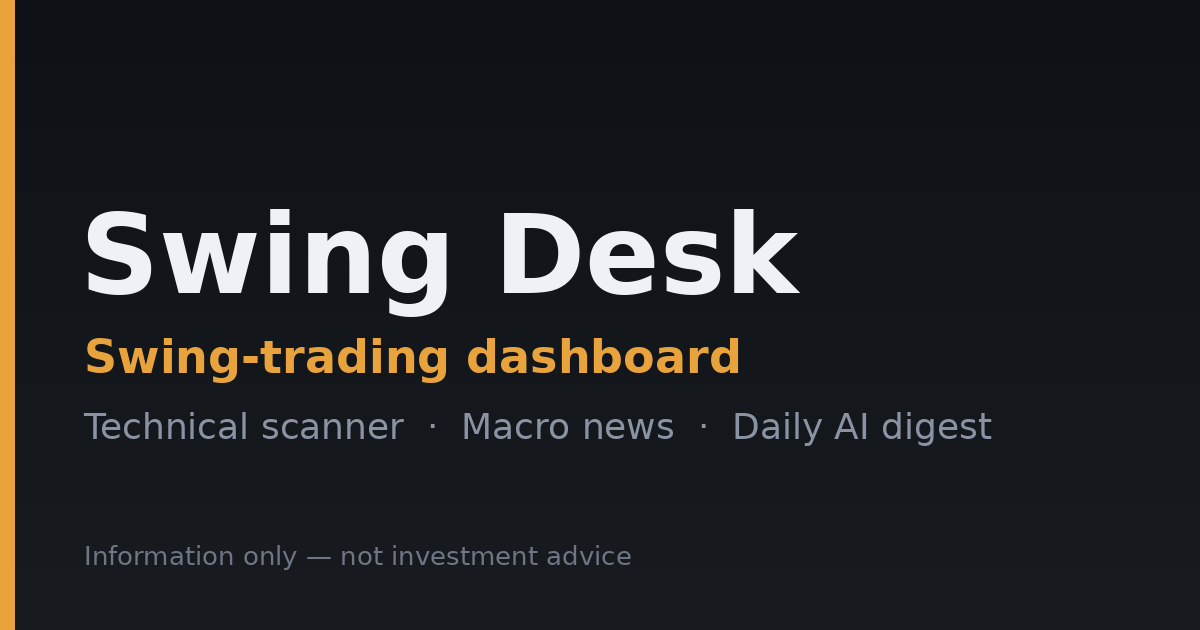
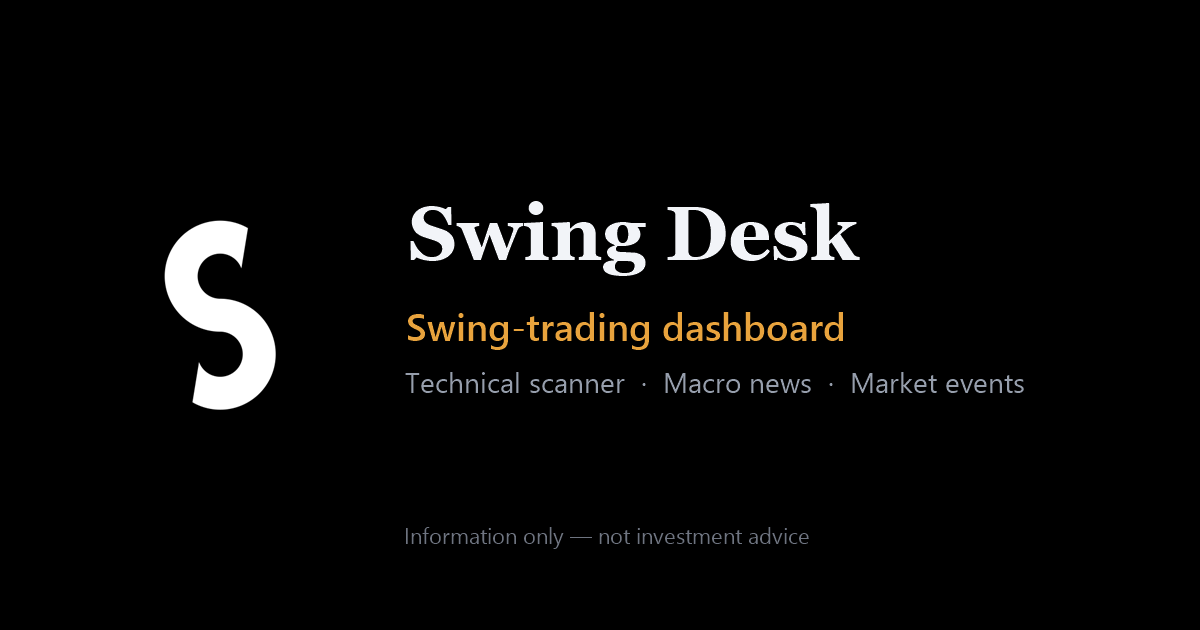
Add files via upload

diff --git a/index.html b/index.html
@@ -2541,9 +2541,10 @@ function renderMarketTicker(){
     const sign = up ? '+' : '';
     const priceStr = it.price >= 1000 ? Math.round(it.price).toLocaleString(t?'en-US':'he-IL') : it.price.toFixed(2);
     const pointsStr = Math.abs(it.change_points) >= 1000
-      ? Math.round(it.change_points).toLocaleString(t?'en-US':'he-IL')
+      ? Math.round(Math.abs(it.change_points)).toLocaleString(t?'en-US':'he-IL')
       : Math.abs(it.change_points).toFixed(2);
-    return `<span class="ticker-item"><span class="t-name">${name}</span><span class="t-price">${priceStr}</span><span class="t-chg ${up?'up':'down'}">${sign}${pointsStr} (${sign}${it.change_pct.toFixed(2)}%)</span></span>`;
+    // the points are shown without their sign, so a fall needs its own minus (VIX showed "1.61 (-8.28%)")
+    return `<span class="ticker-item"><span class="t-name">${name}</span><span class="t-price">${priceStr}</span><span class="t-chg ${up?'up':'down'}">${up?'+':'-'}${pointsStr} (${sign}${it.change_pct.toFixed(2)}%)</span></span>`;
   };
   const baseRow = lastMarketTicker.map(itemHtml).join('');
 
@@ -3109,7 +3110,7 @@ function renderEconMonth(){
   const data = econMonthCache[econMonth];
   const [y, m] = econMonth.split('-').map(Number);
   const first = new Date(Date.UTC(y, m - 1, 1));
-  const lead = first.getUTCDay();                                  // 0 = Sunday
+  const lead = (first.getUTCDay() + 6) % 7;                        // weeks start on Monday, like the US market week (0 = Monday)
   const dim = new Date(Date.UTC(y, m, 0)).getUTCDate();
   const loc = en ? 'en-US' : 'he-IL';
   const monthName = new Intl.DateTimeFormat(loc, {month:'long', year:'numeric', timeZone:'UTC'}).format(first);
@@ -3138,8 +3139,8 @@ function renderEconMonth(){
       ? `<b>${events.length}</b> market events this month, <b>${highN}</b> of them high-impact. Tap a day for details.`
       : `<b>${events.length}</b> אירועי שוק החודש, <b>${highN}</b> מהם בהשפעה גבוהה. לחץ על יום לפרטים.`}${nextTxt ? '<br>' + nextTxt : ''}</div>`;
 
-  // weekday header (a known Sunday-first week) and day cells
-  const wd = Array.from({length: 7}, (_, i) => new Intl.DateTimeFormat(loc, {weekday: en ? 'short' : 'narrow', timeZone:'UTC'}).format(new Date(Date.UTC(2026, 0, 4 + i))));
+  // weekday header (a known Monday-first week: 5 Jan 2026 is a Monday) and day cells
+  const wd = Array.from({length: 7}, (_, i) => new Intl.DateTimeFormat(loc, {weekday: en ? 'short' : 'narrow', timeZone:'UTC'}).format(new Date(Date.UTC(2026, 0, 5 + i))));
   let cells = '';
   for(let i = 0; i < lead; i++) cells += '<div class="cal-cell empty"></div>';
   for(let d = 1; d <= dim; d++){
@@ -3227,10 +3228,11 @@ function renderEarningsCalendar(items){
       let epsHtml = '';
       if(it.reported && it.eps_actual != null){
         const beat = it.surprise_pct != null && it.surprise_pct >= 0;
-        const color = it.surprise_pct == null ? 'var(--text-dim)' : (beat ? 'var(--green)' : 'var(--red)');
+        const flat = it.surprise_pct != null && Math.abs(it.surprise_pct) < 0.05;   // would print "▲ 0.0%"
+        const color = it.surprise_pct == null || flat ? 'var(--text-dim)' : (beat ? 'var(--green)' : 'var(--red)');
         const arrow = it.surprise_pct == null ? '' : (beat ? '▲' : '▼');
         const estPart = it.eps_estimate != null ? ` (${lang==='en'?'est':'צפי'} $${it.eps_estimate.toFixed(2)})` : '';
-        const surprisePart = it.surprise_pct != null ? ` ${arrow} ${Math.abs(it.surprise_pct).toFixed(1)}%` : '';
+        const surprisePart = it.surprise_pct == null ? '' : flat ? ` ＝ ${lang==='en'?'in line':'בהתאם לצפי'}` : ` ${arrow} ${Math.abs(it.surprise_pct).toFixed(1)}%`;
         epsHtml = `<div class="earnings-cal-eps" style="color:${color}">EPS $${it.eps_actual.toFixed(2)}${estPart}${surprisePart}</div>`;
       }
       let revHtml = '';
@@ -3255,10 +3257,11 @@ function renderEarningsCalendar(items){
       }
       if(it.reported && it.revenue_actual != null){
         const revBeat = it.revenue_surprise_pct != null && it.revenue_surprise_pct >= 0;
-        const revColor = it.revenue_surprise_pct == null ? 'var(--text-dim)' : (revBeat ? 'var(--green)' : 'var(--red)');
+        const revFlat = it.revenue_surprise_pct != null && Math.abs(it.revenue_surprise_pct) < 0.05;
+        const revColor = it.revenue_surprise_pct == null || revFlat ? 'var(--text-dim)' : (revBeat ? 'var(--green)' : 'var(--red)');
         const revArrow = it.revenue_surprise_pct == null ? '' : (revBeat ? '▲' : '▼');
         const revEstPart = it.revenue_estimate != null ? ` (${lang==='en'?'est':'צפי'} $${formatMarketCap(it.revenue_estimate)})` : '';
-        const revSurprisePart = it.revenue_surprise_pct != null ? ` ${revArrow} ${Math.abs(it.revenue_surprise_pct).toFixed(1)}%` : '';
+        const revSurprisePart = it.revenue_surprise_pct == null ? '' : revFlat ? ` ＝ ${lang==='en'?'in line':'בהתאם לצפי'}` : ` ${revArrow} ${Math.abs(it.revenue_surprise_pct).toFixed(1)}%`;
         revHtml = `<div class="earnings-cal-eps" style="color:${revColor}">${lang==='en'?'Rev':'הכנסות'} $${formatMarketCap(it.revenue_actual)}${revEstPart}${revSurprisePart}</div>`;
       }
       return `<div class="earnings-cal-row">
@@ -5196,8 +5199,11 @@ function setConsent(v){ try{ localStorage.setItem('swing_consent', v); if(v!=='y
 function renderConsentBanner(){
   if(consentState()) return;
   const en = lang==='en';
+  const old = document.getElementById('consent-banner');
+  if(old) old.remove();                     // re-rendered on a language switch
   const d = document.createElement('div');
   d.id = 'consent-banner';
+  d.dataset.lang = lang;
   d.setAttribute('role','dialog');
   d.setAttribute('aria-label', en ? 'Privacy and cookies' : 'פרטיות ועוגיות');
   d.style.cssText = 'position:fixed;bottom:0;left:0;right:0;z-index:200;background:var(--panel);border-top:1px solid var(--line);padding:12px 16px;display:flex;flex-wrap:wrap;gap:10px;align-items:center;justify-content:center;font-size:12.5px;color:var(--text);box-shadow:0 -6px 24px var(--shadow);';
@@ -5871,6 +5877,8 @@ function applyLang(){
   document.getElementById('earnings-cal-title').textContent = t.earnings_cal_title;
   document.getElementById('daily-digest-btn').textContent = t.daily_digest_btn;
   if(lastFearGreedData) renderFearGreed(lastFearGreedData);
+  const cb = document.getElementById('consent-banner');
+  if(cb && cb.dataset.lang !== lang) renderConsentBanner();   // the banner stayed in Hebrew after switching to English
   rerenderDeepDiveForLang();
   if(backtestLastData && document.getElementById('backtest-content')) renderBacktestContent(backtestLastData);
   renderMarketTicker();

diff --git a/econ_refresh.py b/econ_refresh.py
@@ -9,7 +9,8 @@ Order of work (fast and bounded — a hanging source can never stall the run):
   1. ONE request to the BLS public API for all BLS-owned series (CPI, core CPI, PPI, jobs, unemployment, JOLTS).
   2. FRED for everything that is still missing (PCE, GDP, retail, claims, Fed rate), in parallel, one short attempt
      per URL form, hard time limit for the whole step.
-  3. Keyless stand-ins for what FRED did not deliver: NY Fed (Fed rate) and DBnomics (PCE, core PCE, GDP).
+  3. Keyless stand-ins for what FRED did not deliver: NY Fed (Fed rate), DBnomics (PCE, core PCE, GDP), the Labor
+     Department (jobless claims) and the Census release page (retail sales).
 A series that cannot be downloaded keeps its previous stored copy. The run fails (red) only if NOTHING refreshed.
 Needs only the DATABASE_URL secret (FRED_API_KEY / BLS_API_KEY optional).     Manual run: python -u econ_refresh.py
 """
@@ -69,7 +70,7 @@ def fred_download(series):
 #   * New York Fed rates API: the Fed's target range (upper bound) published with every daily EFFR rate = DFEDTARU.
 #   * DBnomics: a public mirror of BEA's NIPA tables (same index base and numbers as FRED). It re-reads BEA once a day
 #     (~01:30 UTC), so a new PCE/GDP "actual" shows up about a day after the release, not within minutes.
-# Retail sales (RSAFS) and jobless claims (ICSA) have no keyless source found yet (Census API now wants a key).
+#   * Labor Department (jobless claims) and the Census release page (retail sales) — see dol_claims / census_retail below.
 # --------------------------------------------------------------------------
 NYFED_EFFR = "https://markets.newyorkfed.org/api/rates/unsecured/effr/search.json?startDate={start}&endDate={end}"
 DBNOMICS = "https://api.db.nomics.world/v22/series/{code}?observations=1&format=json"
@@ -114,6 +115,79 @@ def dbnomics_rows(series):
     return rows
 
 
+# Jobless claims (ICSA): the Labor Department's own weekly-claims report, national, as XML (the form on
+# oui.doleta.gov/unemploy/claims.asp). "SA" = seasonally adjusted initial claims, the figure FRED's ICSA carries; the week
+# date is the Saturday the week ended, like FRED. Weeks not yet published come back as &#160; and are skipped.
+DOL_CLAIMS = "https://oui.doleta.gov/unemploy/wkclaims/report.asp"
+
+
+def dol_claims():
+    import re
+    import requests
+    year = date.today().year
+    r = requests.post(DOL_CLAIMS, data={"level": "us", "final_yr": str(year + 1), "strtdate": str(year - 2),
+                                        "enddate": str(year), "filetype": "xml", "submit": "Submit"},
+                      headers=ec.HTTP_HEADERS_ALT, timeout=30)
+    if r.status_code != 200:
+        raise RuntimeError(f"HTTP {r.status_code} for oui.doleta.gov")
+    rows = []
+    for wk in re.findall(r"(?s)<week>(.*?)</week>", r.text):
+        m_d = re.search(r"<weekEnded>(\d\d)/(\d\d)/(\d{4})</weekEnded>", wk)
+        block = re.search(r"(?s)<InitialClaims>(.*?)</InitialClaims>", wk)     # not the ContinuedClaims <SA>
+        m_v = re.search(r"<SA>([\d,]+)</SA>", block.group(1)) if block else None
+        if m_d and m_v:
+            rows.append((date(int(m_d.group(3)), int(m_d.group(1)), int(m_d.group(2))), float(m_v.group(1).replace(",", ""))))
+    if not rows:
+        raise RuntimeError("DOL claims report had no seasonally adjusted rows")
+    return sorted(rows)
+
+
+# Retail sales (RSAFS): the Census release page states the newest month in one sentence — "...for September 2026 ... were
+# $745.0 billion, up 0.8 percent ... from the previous month ... The July 2026 to August 2026 percent change was revised
+# from up 1.1 percent ... to up 1.3 percent". The calendar shows month-on-month % changes, so three monthly levels are
+# rebuilt from the level and the two official % changes (the older two levels are DERIVED, only the % changes are
+# official; they reproduce exactly the published figures for "actual" and "previous").
+CENSUS_RETAIL = "https://www.census.gov/retail/sales.html"
+_MONTHS = {m: i for i, m in enumerate(["january", "february", "march", "april", "may", "june", "july", "august",
+                                       "september", "october", "november", "december"], 1)}
+
+
+def _census_pct(phrase):
+    import re
+    if re.match(r"\s*(?:virtually\s+)?unchanged", phrase, re.I):
+        return 0.0
+    m = re.match(r"\s*(up|down)\s+([\d.]+)\s+percent", phrase, re.I)
+    if not m:
+        return None
+    return float(m.group(2)) * (1 if m.group(1).lower() == "up" else -1)
+
+
+def census_retail():
+    import html
+    import re
+    text = re.sub(r"\s+", " ", html.unescape(re.sub(r"<[^>]+>", " ", ec._http_text(CENSUS_RETAIL, timeout=25))))
+    m = re.search(r"retail and food services sales for (\w+) (\d{4}),.{0,200}?were \$([\d,.]+) billion,"
+                  r"((?:\s*(?:virtually\s+)?unchanged|\s*(?:up|down) [\d.]+ percent)).{0,60}?from the previous month", text, re.I)
+    if not m or m.group(1).lower() not in _MONTHS:
+        raise RuntimeError("Census retail page: headline sentence not found")
+    month = date(int(m.group(2)), _MONTHS[m.group(1).lower()], 1)
+    level = float(m.group(3).replace(",", "")) * 1000          # millions of dollars, like FRED's RSAFS
+    pct = _census_pct(m.group(4))
+    if pct is None:
+        raise RuntimeError("Census retail page: monthly change not understood")
+    prev_month = (month.replace(day=1) - timedelta(days=1)).replace(day=1)
+    rows = [(prev_month, level / (1 + pct / 100)), (month, level)]
+    r = re.search(r"percent change was (?:revised|unrevised) from (?:(?:virtually\s+)?unchanged|(?:up|down) [\d.]+ percent)"
+                  r"(?:\s*\([^)]{0,30}\))?(?:\s+to\b((?:\s*(?:virtually\s+)?unchanged|\s*(?:up|down) [\d.]+ percent)))?", text, re.I)
+    if r:
+        prev_pct = _census_pct(r.group(1)) if r.group(1) else _census_pct(re.search(
+            r"from ((?:virtually\s+)?unchanged|(?:up|down) [\d.]+ percent)", r.group(0), re.I).group(1))
+        if prev_pct is not None:
+            older = (prev_month - timedelta(days=1)).replace(day=1)
+            rows.insert(0, (older, rows[0][1] / (1 + prev_pct / 100)))
+    return rows
+
+
 def main():
     series = sorted({v["fred"]["series"] for v in ec.CATALOG.values() if v.get("fred")})
     stored = {}
@@ -147,7 +221,8 @@ def main():
         pool.shutdown(wait=False, cancel_futures=True)
 
     # 3) keyless stand-ins for whatever FRED did not deliver
-    fallbacks = {"DFEDTARU": ("NY Fed", nyfed_target_upper)}
+    fallbacks = {"DFEDTARU": ("NY Fed", nyfed_target_upper), "ICSA": ("DOL", dol_claims),
+                 "RSAFS": ("Census", census_retail)}
     fallbacks.update({s: ("DBnomics (BEA)", lambda s=s: dbnomics_rows(s)) for s in DBNOMICS_SERIES})
     for s, (src, fn) in fallbacks.items():
         if s in series and s not in stored:

diff --git a/pipeline_a_scanner.py b/pipeline_a_scanner.py
@@ -1570,7 +1570,7 @@ def scan_universe(universe: List[str] = None, target_language: str = "he") -> Li
             pattern_type = "cup_no_handle"
         elif resistance_break:
             trigger_en = f"Breaking above horizontal resistance at ${resistance_break['level']} (tested {resistance_break['touches']}x)"
-            trigger_he = f"פריצת התנגדות אופקית ב-${resistance_break['level']} (נבדקה {resistance_break['touches']} פעמים)"
+            trigger_he = f"פריצת התנגדות אופקית ב-${resistance_break['level']} ({_tested_he(resistance_break['touches'])})"
             tech_score = min(100, 75 + min(resistance_break['touches'] - 2, 4) * 2 + int(vol_pct / 10))
             pattern_type = "horizontal_resistance_breakout"
         elif golden_cross:
@@ -1613,7 +1613,7 @@ def scan_universe(universe: List[str] = None, target_language: str = "he") -> Li
             # validated support/resistance level is considered a
             # stronger signal than an indicator crossover on its own.
             trigger_en = f"Bouncing off horizontal support at ${level_bounce['level']} (tested {level_bounce['touches']}x)"
-            trigger_he = f"התאוששות מרמת תמיכה אופקית ב-${level_bounce['level']} (נבדקה {level_bounce['touches']} פעמים)"
+            trigger_he = f"התאוששות מרמת תמיכה אופקית ב-${level_bounce['level']} ({_tested_he(level_bounce['touches'])})"
             tech_score = min(76, 68 + min(level_bounce['touches'] - 2, 4) * 2)
             pattern_type = "horizontal_level_bounce"
         # Below this point: pure-indicator patterns (MACD crossover,
@@ -1799,6 +1799,11 @@ EARNINGS_CALENDAR_WINDOW_PAST_DAYS = 6
 EARNINGS_CALENDAR_WINDOW_FUTURE_DAYS = 7  # ...through the coming week
 
 
+def _tested_he(n) -> str:
+    """'(נבדקה N פעמים)' with correct Hebrew for one touch ('נבדקה 1 פעמים' read wrong)."""
+    return "נבדקה פעם אחת" if n == 1 else f"נבדקה {n} פעמים"
+
+
 def _earnings_session(dt_utc: datetime) -> str:
     """Before-open / after-close / during-market, based on the Eastern
     Time hour of the reported earnings timestamp (yfinance gives this in
@@ -1937,6 +1942,9 @@ _BAD_BEFORE = re.compile(
     # v18 (26.10.2026, live): one LINE of revenue, not the total — Verizon "Mobility and broadband service revenue of $23.5
     # billion" (total was $34.3B), Blackstone "Net Accrued Performance Revenues of $7.3 billion" (a balance, not revenue)
     r"\bservice|\bsubscription|\bproducts?\b|\bequipment\b|\baccrued\b|\bdeferred\b|\bunearned\b)\W*(?:\w+\W+){0,6}$", re.I)
+# A forward-looking word is cancelled by a past-result verb AFTER it in the same clause — only with a stored estimate (v18)
+_FORWARD_WORD = re.compile(r"expect|anticipat|outlook|guidance|forecast|project|target|predict|estimat", re.I)
+_RESULT_VERB = re.compile(r"\b(?:delivered|reported|posted|generated|achieved|recorded)\b", re.I)
 # ...or the words right after it say "a year ago" / "in the prior-year quarter"
 _BAD_AFTER = re.compile(
     r"^\W{0,3}(?:a\s+year\s+ago|last\s+year|in\s+the\s+(?:year[-\s]ago|prior|same)|(?:in|for)\s+(?:the\s+)?(?:year[-\s]ago|prior[-\s]year|same\s+(?:quarter|period)))", re.I)
@@ -2131,7 +2139,10 @@ def _parse_sentence_revenue(text, reference=None, estimate=None):
             # only the clause the figure sits in counts ("...a year ago, revenue was $2.3 billion" is a new clause)
             before = re.split(r"[;,.!?]\s|\s[-\u2013\u2014]\s|[()]", head[max(0, m.start() - 60):m.start()])[-1]
             after = head[m.end():m.end() + 45]
-            if _BAD_BEFORE.search(before) or _BAD_AFTER.match(after):
+            bad = _BAD_BEFORE.search(before)
+            if bad and estimate and _FORWARD_WORD.match(bad.group(1)) and _RESULT_VERB.search(before[bad.end(1):]):
+                bad = None   # "...EPS GUIDANCE COMPANY DELIVERED RECORD Q3 REVENUE OF $20.1 BILLION" (AmEx headline, no punctuation)
+            if bad or _BAD_AFTER.match(after):
                 continue
             ok = _in_band(val, reference, estimate)
             if ok is False:

diff --git a/CLAUDE.md b/CLAUDE.md
@@ -12,12 +12,12 @@
 
 **פתוח עכשיו (לפי סדר חשיבות):**
 000. **חיבור Vercel ל-GitHub — הושלם ואומת (24.10.2026, סעיף 24):** הפרונט נפרס אוטומטית מ-`main`; אין יותר Vercel Drop.
-0000. **סעיף 27 (26.10.2026, v18) — העדכני ביותר:** עבודה מקומית עם Claude Code (כללי עבודה ב-27.0). תוקן פענוח ההכנסות מהודעות הרווחים (VZ/BX שגויים, ABT/VLO/KMI חסרים) ונוספו מקורות חלופיים בלי מפתח ל-FOMC/PCE/Core PCE/GDP (NY Fed + DBnomics). FRED לא עונה מאף מקום. ממתין להעלאה ולבדיקה לפי 27.4. קמעונאות ודרישות אבטלה — עדיין בלי מקור.
+0000. **סעיף 27 (26.10.2026, v18) — העדכני ביותר:** עבודה מקומית עם Claude Code (כללי עבודה ב-27.0). תוקן פענוח ההכנסות מהודעות הרווחים (VZ/BX שגויים, ABT/VLO/KMI חסרים) ונוספו מקורות חלופיים בלי מפתח ל-FOMC/PCE/Core PCE/GDP (NY Fed + DBnomics). FRED לא עונה מאף מקום. ממתין להעלאה ולבדיקה לפי 27.4. סבב שני (27.3א): גם קמעונאות (Census) ודרישות אבטלה (DOL) קיבלו מקור; לוח חודשי מיום שני; תיקוני תצוגה מסיור באתר; תמונת שיתוף חדשה; AXP. פתוח: Deep Dive איטי כשהפונדמנטלס מתעכבים.
 000. **סעיף 26 (26.10.2026):** פריסה LTR קבועה בשתי השפות, מצב בהיר חדש, לוגו S, עמודת תגית קבועה בחדשות, תיקון גרף ניתוח המניה, **ביקורת לוח האירועים (6 סדרות FRED ריקות — צריך `FRED_API_KEY`) ופענוח הכנסות חדש**. פתוח עיקרי בסוף סעיף 26.
 000. **סעיף 25 (24.10.2026):** שורת מדדים נגררת וקבועה; סריקת אתר רביעית; **תוכנית SEO/מטא-תגים למועד קניית דומיין (25.3)**; כיוון ללוגו (25.4). פתוח: favicon (אין כרגע, סעיף 24.3).
 00. **v16 (סעיף 23, 22.10.2026) — הועלה ונבדק חלקית:** סיכום AI מצטבר לכל יום + היסטוריית ימים (אומת: נוצר סיכום של אתמול), פס "חדשות שוברות" נגלל בעכבר (אומת), ותיקוני ביקורת-אתר (SEO/ביצועים/נגישות/אבטחה — **חלקם בלתי נראים לעין בכוונה**; ממתין להרצה חוזרת של הסורק ולשורות ה-Console האדומות). פירוט וצ'קליסט: סעיף 23.
 0. **סיכום AI יומי (v13.1, סעיף 20) — הוחלף ב-v16 (מודל "סיכום מצטבר לכל יום", סעיף 23); הטקסט כאן היסטורי.** הריצה הידנית הדפיסה `[ai_digest] saved — 50 items, 3 topics, model nvidia/nemotron-3.5-lightning-30b-a3b`. **נשאר:** (א) לוודא ש-`index.html` החדש (כפתור אחד) פרוס ושבלחיצה על 📰 סיכום יומי מופיע למעלה בלוק "🤖 סיכום AI"; (ב) לבדוק איכות/עברית על כמה ימים; (ג) **לפני פתיחה לציבור:** לעבור לספק AI בתשלום או לוודא את תנאי השימוש של NVIDIA (החינמי מיועד לפיתוח — לא אומת מול התנאים עצמם).
-1. **תזמון הסריקות:** GitHub `schedule` מאחר 3–12 שעות (נמדד, 19.6). **נבנה `scheduler.py` — תזמון מובנה בשרת ב-Render, בלי הרשמה לשום שירות חיצוני** (המשתמש ביקש במפורש בלי הרשמה). **ממתין להקמה ע"י המשתמש (לפי הסדר):** (א) טוקן GitHub (Fine-grained, הריפו הזה בלבד, Actions: Read and write) → משתנה סביבה `GITHUB_DISPATCH_TOKEN` ב-Render; (ב) העלאה במכה אחת: `scheduler.py` (חדש, בשורש), `api_server.py`, `pipeline_a_scanner.py`, `econ_calendar.py`, `index.html`, ושלושת ה-yml (`stock-scanner`, `earnings-refresh`, `news-aggregator` — **בלי `schedule`**, לכן **הטוקן חייב להיות מוגדר לפני/יחד עם ההעלאה**); (ג) לבדוק `/api/scheduler/status` (`enabled:true`, `thread_alive:true`) ובדיקה ב-Actions שהריצה הבאה התחילה בזמן.
+1. **(✅ אומת 26.10.2026: `/api/scheduler/status` → `enabled:true`, `thread_alive:true`, `token_configured:true`, כל ההפעלות האחרונות HTTP 204 בזמן — התזמון המובנה עובד; הטקסט שאחרי זה היסטורי.)** **תזמון הסריקות:** GitHub `schedule` מאחר 3–12 שעות (נמדד, 19.6). **נבנה `scheduler.py` — תזמון מובנה בשרת ב-Render, בלי הרשמה לשום שירות חיצוני** (המשתמש ביקש במפורש בלי הרשמה). **ממתין להקמה ע"י המשתמש (לפי הסדר):** (א) טוקן GitHub (Fine-grained, הריפו הזה בלבד, Actions: Read and write) → משתנה סביבה `GITHUB_DISPATCH_TOKEN` ב-Render; (ב) העלאה במכה אחת: `scheduler.py` (חדש, בשורש), `api_server.py`, `pipeline_a_scanner.py`, `econ_calendar.py`, `index.html`, ושלושת ה-yml (`stock-scanner`, `earnings-refresh`, `news-aggregator` — **בלי `schedule`**, לכן **הטוקן חייב להיות מוגדר לפני/יחד עם ההעלאה**); (ג) לבדוק `/api/scheduler/status` (`enabled:true`, `thread_alive:true`) ובדיקה ב-Actions שהריצה הבאה התחילה בזמן.
 2. **הכנסות ביומן דוחות:** ריצת Quick refresh ידנית הצליחה, אבל **לא כל השורות מלאות**. ממתין ללוגים (שורות `SEC revenue ...` בלוג הריצה ב-Actions) כדי לראות באיזה שלב כל חברה נעצרת.
 3. **לוח כלכלי אחרי v13:** לפתוח `/api/econ-calendar/debug` — `bls.matched_titles` אמור להכיל CPI/PPI; ב-`meta.providers` הרכיב `actual` אמור להיות `ok:true`. אם `actual` נכשל (FRED חסום מ-Render) — fallback מוצע: BLS Public API v1 (סעיף 19.4).
 4. **מצב בהיר:** גרסה ראשונה, לא נבדקה ויזואלית (המשתמש אמר שנראה "חיוור" בגרסה הראשונה; חוזקו הצבעים). ממתין לצילומי מסך.
@@ -980,8 +980,17 @@ Actions → **AI Digest (manual test)** → Run workflow → `mode = probe` → 
 
 **`econ_refresh.py` — מקורות חלופיים בלי מפתח (שלב 3, אחרי FRED):** `nyfed_target_upper()` (NY Fed, `targetRateTo` → `DFEDTARU`, ימי עסקים) ו-`dbnomics_rows()` (`DBNOMICS_SERIES`: PCEPI, PCEPILFE, A191RL1Q225SBEA; תאריך מ-`period_start_day`). נשמרים לאותה טבלה (`series-<id>`), כך שהשרת והאתר לא השתנו. FOMC: "בפועל" מגיע ביום שאחרי ההחלטה (כמו קודם). PCE/GDP: ~יום אחרי הפרסום (DBnomics מתעדכן ~01:30 UTC; ריצת 08:00 ET למחרת קולטת). **קמעונאות (RSAFS) ודרישות אבטלה (ICSA) — עדיין בלי מקור.** נבדק: שתי הכתובות עונות מהמחשב הביתי עם הנתונים הנכונים; הקוד בפייתון לא הורץ.
 
+### 27.3א סבב שני באותו יום (26.10.2026, אושר ע"י המשתמש)
+- **`scheduler.py` אומת כעובד** (`/api/scheduler/status`: enabled, thread_alive, token_configured, הפעלות 204 בזמן). econ רץ 08:00–10:30 ET ו-18:30 ET; quick כל 20 דק'.
+- **לוח חודשי מתחיל ביום שני** (בקשת המשתמש, כמו שבוע המסחר האמריקאי): `renderEconMonth` — `lead = (getUTCDay()+6)%7`, כותרות הימים מ-5.1.2026 (יום שני). תצוגת הרשימה כבר סופרת "השבוע" עד יום ראשון.
+- **סיור באתר החי** (עברית/אנגלית, נייד 375px, Console): נמצאו ותוקנו — (1) שורת המדדים: ירידה בנקודות הוצגה בלי מינוס ("VIX 17.84 1.61 (-8.28%)") → `renderMarketTicker` מוסיף `-`; (2) באנר ההסכמה נשאר בעברית אחרי מעבר לאנגלית → `renderConsentBanner` מחליף באנר קיים, `data-lang`, ו-`applyLang` מרנדר מחדש רק כשהשפה השתנתה; (3) יומן דוחות "▲ 0.0%" → מתחת ל-0.05% מוצג "＝ בהתאם לצפי"/"in line" באפור; (4) "נבדקה 1 פעמים" → `_tested_he()` בסורק ("נבדקה פעם אחת"; רק לאיתותים חדשים). **לא תוקן, לשקול:** ניתוח מניה (Deep Dive) המתין ~35 שנ' ל-AAPL כי `/api/fundamentals` החזיר 504 בקריאה הראשונה (SEC איטי, Render חותך) והדף מחכה לכל הבקשות (`Promise.allSettled`) לפני שהוא מצייר — עדיף לצייר גרף/מחיר קודם והפונדמנטלס כשמגיעים. **נראה תקין:** בנייד אין גלילה אופקית; באנגלית אין טקסט עברי שנשאר (מלבד הבאנר שתוקן). "הכי זזות" הראה ADR ברזילאיים ב-−15% עד −49% (XP, ITUB, PBR...) — כנראה אמיתי (סיבוב שני בבחירות בברזיל, 25.10), לא אומת.
+- **קמעונאות ודרישות אבטלה — נמצאו מקורות רשמיים בלי מפתח** (`econ_refresh.py`): `dol_claims()` — דוח השבועי של משרד העבודה כ-XML (`POST oui.doleta.gov/unemploy/wkclaims/report.asp`, `level=us`, `filetype=xml`; InitialClaims/SA = ICSA). **שים לב:** ב-26.10 השבוע האחרון שפורסם שם הוא 26.9 — DOL עצמו לא עדכן אוקטובר (סיבה לא ידועה). `census_retail()` — משפט הכותרת בדף `census.gov/retail/sales.html` ("for September 2026 ... were $745.0 billion, up 0.8 percent ... revised from up 1.1 percent ... to up 1.3 percent") → 3 רמות חודשיות משוחזרות כך שהשינוי החודשי "בפועל"/"קודם" זהה בדיוק לפרסום הרשמי (הרמות הישנות נגזרות, לא רשמיות). נבדק מול הדף החי ועל נוסחי "unrevised"/"virtually unchanged". `census.gov/econ/currentdata/export` מחזיר 400; Census API דורש מפתח.
+- **AXP:** `_FORWARD_WORD` + `_RESULT_VERB` — מילת תחזית (guidance/outlook/expect...) שאחריה באותו משפט פועל של תוצאה (delivered/reported/posted/generated/achieved/recorded) לא פוסלת את המספר, **רק כשיש צפי שמור**. AXP → 20.1B ✓; שאר הבדיקות ללא שינוי.
+- **`og-image.png` הוחלף** בתמונה עם לוגו ה-S (1200×630, רקע שחור; נוצר ב-PowerShell/System.Drawing מ-`logo.png`). וואטסאפ/לינקדאין שומרים תצוגה ישנה במטמון ימים–שבועות.
+
 ### 27.4 מה לבדוק אחרי ההעלאה
-1. Actions → **Econ Data Refresh** → Run workflow. בלוג: `DFEDTARU: saved ... from NY Fed`, `PCEPI/PCEPILFE/A191RL1Q225SBEA: saved ... from DBnomics (BEA)`, `refreshed 10/12 series`.
-2. `/api/econ-calendar` → `meta.series`: הסדרות האלה עם `points` > 0; FOMC/GDP/PCE/Core PCE מקבלים "קודם".
+1. Actions → **Econ Data Refresh** → Run workflow. בלוג: `DFEDTARU: saved ... from NY Fed`, `PCEPI/PCEPILFE/A191RL1Q225SBEA: saved ... from DBnomics (BEA)`, `ICSA: saved ... from DOL`, `RSAFS: saved 3 points from Census`, `refreshed 12/12 series`.
+2. `/api/econ-calendar` → `meta.series`: הסדרות האלה עם `points` > 0; FOMC/GDP/PCE/Core PCE/קמעונאות/דרישות אבטלה מקבלים "קודם"; קמעונאות 15.10 מקבלת "בפועל" 0.8%.
+4. באתר: הלוח החודשי מתחיל ביום שני; VIX בירידה מציג מינוס; מעבר לאנגלית מתרגם את באנר ההסכמה; בדוחות NOC/ABT מציגים "בהתאם לצפי"; `/og-image.png` מציג את הלוגו החדש.
 3. Actions → **Quick refresh (heatmap + earnings results)** (או המתנה ל-20 דק'): בלוג `cleared 2 press-release revenue(s) far from the estimate: VZ, BX`, ואחריו שורות `revenue $...B taken from the SEC press release` ל-VZ/BX/ABT/VLO/KMI. ביומן: VZ ≈ $34.3B, BX ≈ $3.06B.
 
